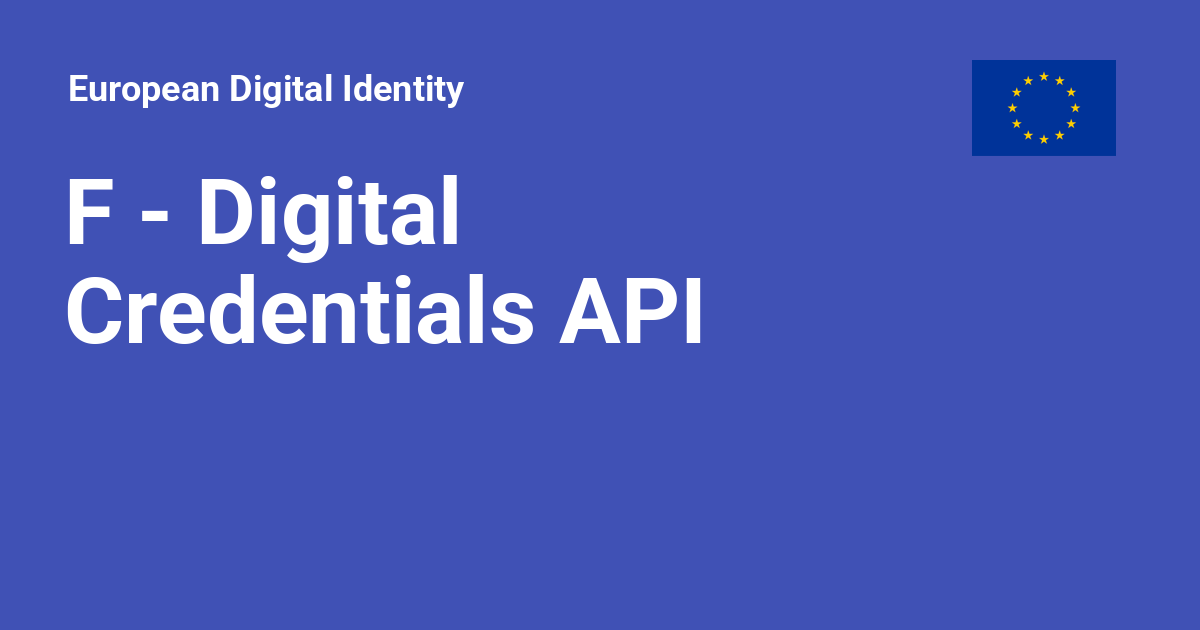
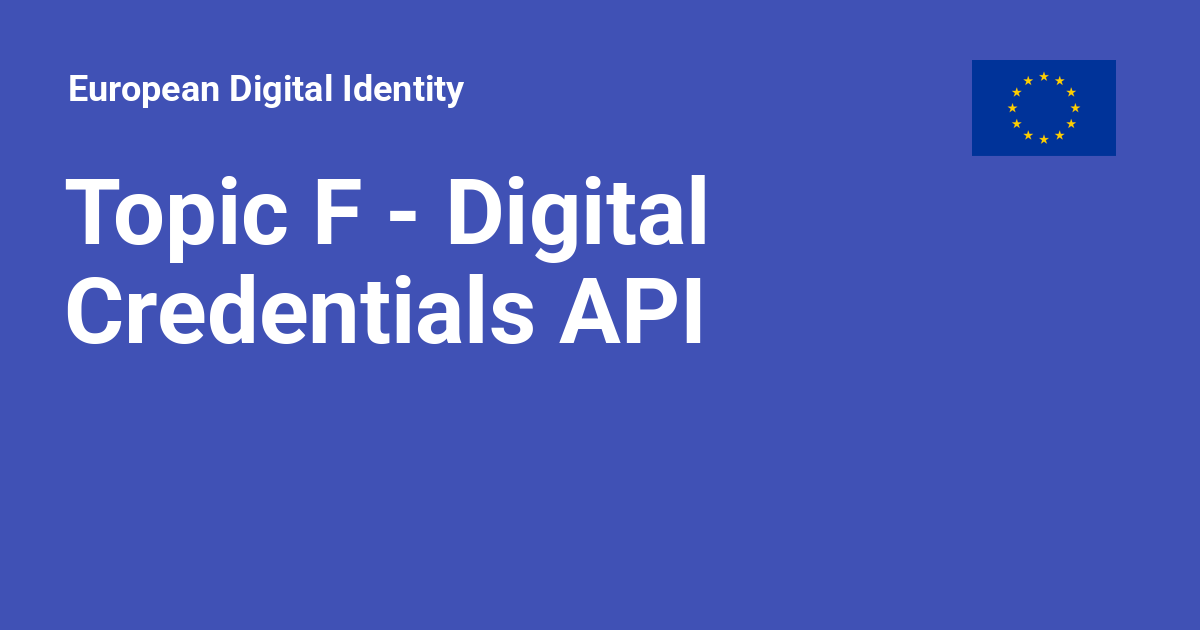
Deployed 0038ece to 2.5.0 with MkDocs 1.6.1 and mike 2.1.3

Changed region(s): [[0.0308, 0.2714, 0.5858, 0.4222]]

diff --git a/2.5.0/discussion-topics/f-digital-credential-api/index.html b/2.5.0/discussion-topics/f-digital-credential-api/index.html
@@ -18,7 +18,7 @@
     
     
       
-        <title>F - Digital Credentials API - European Digital Identity</title>
+        <title>Topic F - Digital Credentials API - European Digital Identity</title>
       
     
     
@@ -53,7 +53,7 @@
       
         <meta  property="og:type"  content="website" >
       
-        <meta  property="og:title"  content="F - Digital Credentials API - European Digital Identity" >
+        <meta  property="og:title"  content="Topic F - Digital Credentials API - European Digital Identity" >
       
         <meta  property="og:description"  content="None" >
       
@@ -69,7 +69,7 @@
       
         <meta  name="twitter:card"  content="summary_large_image" >
       
-        <meta  name="twitter:title"  content="F - Digital Credentials API - European Digital Identity" >
+        <meta  name="twitter:title"  content="Topic F - Digital Credentials API - European Digital Identity" >
       
         <meta  name="twitter:description"  content="None" >
       
@@ -96,7 +96,7 @@
     <div data-md-component="skip">
       
         
-        <a href="#f-digital-credentials-api" class="md-skip">
+        <a href="#topic-f-digital-credentials-api" class="md-skip">
           Skip to content
         </a>
       
@@ -135,7 +135,7 @@
         <div class="md-header__topic" data-md-component="header-topic">
           <span class="md-ellipsis">
             
-              F - Digital Credentials API
+              Topic F - Digital Credentials API
             
           </span>
         </div>
@@ -429,8 +429,8 @@
   
 
 
-<h1 id="f-digital-credentials-api">F - Digital Credentials API</h1>
-<p>Version 1.1, updated 20 February 2025</p>
+<h1 id="topic-f-digital-credentials-api">Topic F - Digital Credentials API</h1>
+<p>Version 1.2, updated 8 October 2025</p>
 <h2 id="1-introduction">1. Introduction</h2>
 <h3 id="11-discussion-paper-topic-description">1.1 Discussion Paper topic description</h3>
 <p>This document is the Discussion Paper for the European Digital Identity Cooperation Group regarding Topic F: Digital Credentials API (formerly known as 'the browser API').</p>
@@ -498,7 +498,7 @@ Credentials API:</p>
 </thead>
 <tbody>
 <tr>
-<td>Data theft is defined as the unauthorised extraction of data. Data theft is also associated to threats, such as data interception (unauthorised capture of data in transit) and data decryption (unauthorised decoding of encrypted data), which are likely to lead in some cases to Data disclosure (R6).</td>
+<td>Data theft is defined as the unauthorised extraction of data. Data theft is also associated with threats, such as data interception (unauthorised capture of data in transit) and data decryption (unauthorised decoding of encrypted data), which are likely to lead in some cases to Data disclosure (R6).</td>
 </tr>
 </tbody>
 </table>
@@ -692,7 +692,7 @@ One approach considered by standardization bodies involves using custom URI sche
 or "openid4vp://". In this approach, the operating system would trigger the Wallet Unit
 when the Relying Party Instance requests a connection via a custom URI. However, relying on custom
 URI schemes introduces variability in user experiences across different browsers and operating systems,
-resulting in operational inefficiencies and potential security risks.</li>
+leading to operational inefficiencies and potential security risks.</li>
 <li><strong>4. Clear Origin Verification</strong>: Protecting against relay attacks requires precise
 identification of the Relying Party Instance's origin.</li>
 <li><strong>5. Session binding</strong>: When presenting a PID or attestation to a remote Relying Party,
@@ -706,9 +706,8 @@ and security while providing a consistent and reliable user experience.</p>
 <p>Digital Credentials API is a Draft Community Group report of the
 Web Platform Incubator Community Group (WICG) that builds upon Credential
 Management Level 1 API W3C Working Draft [Cred_Man]. The goal of the Digital
-Credentials API is to enable user agents (i.e., browsers) to mediate access to,
-and presentation of, attestations. Currently, attestation issuance is not in the
-scope of this API, but future versions <a href="https://github.com/WICG/digital-credentials/issues/167">will consider it</a>. The Digital Credentials
+Credentials API is to enable user agents (i.e., browsers) to mediate issuance, access,
+and presentation of attestations. The Digital Credentials
 API can be used, for example, by a Relying Party website to request a PID or
 (Q)EAA stored in a Wallet Unit through the User's browser. The browser and the
 Wallet Unit may be in the same device (same-device flow) or in separate devices
@@ -741,7 +740,7 @@ requests</code>, where each presentation request includes an <code>exchange prot
 protocol. The Digital Credentials API specifications will include a registry of
 supported protocols.</p>
 <p>As a next step, the browser sends the request to the operating system which
-searches matching attestations in installed Wallet Units. The cross-device
+searches for matching attestations in installed Wallet Units. The cross-device
 flow can be used to search for matching attestations in Wallet Units installed
 in a different device, located in close proximity to the browser. If more than
 one matching attestation is found, the browser prompts the User to select one.
@@ -749,18 +748,28 @@ As a next step, request data is sent to the corresponding
 Wallet Unit. Then, the Wallet Unit asks user consent and generates a
 presentation based on the selected exchange protocol. The presentation is
 relayed back to the Relying Party's website.</p>
-<p>As of January 2025, Digital Credentials API support is provided only by the Chrome
-browser and the Android mobile operating system. In this experimental implementation there
-exists a method for Wallet Units to indicate to a component, which is part of
-the Wallet Solution and it is referred to as the "matcher" in the current Android-specific
-implementation, the availability of attestations and,
-optionally, attributes included in the attestation. An example <a href="https://digitalcredentials.dev/docs/wallets/android/#the-provider-api">can be found here</a>. This
-Android-specific documentation mentions that the information provided by the Wallet Unit is used
-by the Android operating system to render a selector, allowing Users to make an
-informed choice about which attestation to proceed with.</p>
-<h4 id="221-same-device-flow">2.2.1 Same-device flow</h4>
-<p>As of January 2025, the same-device flow is
-implemented using the following steps:</p>
+<p>As of October 2025, attestation presentation using the DC API is supported
+by Chrome, Safari, and Edge (with a feature flag enabled). Attestation issuance 
+is available as an experimental feature in Chrome and Edge. However, DC API 
+implementations differ across browsers. Chrome and Edge are agnostic to the 
+attestation format and presentation protocol. Safari, on the other hand, 
+<a href="https://developer.apple.com/documentation/identitydocumentservices/requesting-a-mobile-document-on-the-web">supports only</a> 
+the mdoc request profile as defined in ISO/IEC 18013-7 Annex C. </p>
+<h4 id="221-attestation-matching">2.2.1 Attestation matching</h4>
+<p>Mobile operating systems handle attestation matching
+differently. In Android, a Wallet must provide 
+a "matcher", which is Wallet-specific code executed in a sandboxed environment 
+and responsible for matching DC API requests to Wallet Instances. Android 
+provides a sample matcher that has to be configured with the attestation types 
+and attributes of all credentials in a Wallet Instance, although alternative matcher 
+implementations can be used. In iOS, Wallet Units register supported attestation 
+types with the operating system. </p>
+<p>It is highlighted that the method used by the operating system to 
+match credential requests to attestations is out of scope of the DC API 
+specification.</p>
+<h4 id="222-same-device-flow">2.2.2 Same-device flow</h4>
+<p>The same-device flow can be implemented using the following steps (the example 
+screenshots shown are based on the Chrome browser):</p>
 <ul>
 <li>The User visits the website of the Relying Party and indicates that they want to present some attributes from installed Wallet Units.</li>
 <li>The browser asks permission from the User to allow Digital Credentials API invocation from this particular website.
@@ -773,28 +782,45 @@ implemented using the following steps:</p>
 <li>The Wallet Unit processes the request according to the relevant specification (e.g., OpenID4VP) and returns the requested
 attributes through the browser, provided that the Wallet Unit contains the attributes, all required verifications pass and the User consents.</li>
 </ul>
-<h4 id="222-cross-device-flow">2.2.2 Cross-device flow</h4>
-<p>The cross-device flow is implemented using the following steps:</p>
+<h4 id="223-cross-device-flow">2.2.3 Cross-device flow</h4>
+<p>The cross-device flow can be implemented using the following steps (the example 
+screenshots shown are based on the Chrome browser):</p>
 <ul>
 <li>The User visits the website of the Relying Party and indicates that they want to present some attributes from installed Wallet Units.</li>
 <li>The browser asks permission from the User to allow Digital Credentials API invocation from this particular website.
 <img alt="Website authorisation in cross device flow" src="../img/cross-auth.png" /></li>
 <li>The Relying Party  indicates to the browser which attributes they want to request by
 creating a <code>presentation request</code>.</li>
-<li>The browser uses CTAP 2.2 hybrid flow (section 11.5 of [Ctap]) to establish a tunnel between the
-browser and the device where the Wallet Unit is installed (this is the same flow used by WebAuthn/passkeys).
-From a high level this is implemented as follows: (i) The browser presents a QR code which
-includes information about the tunnel endpoint and keys that can be used for establishing
-a secure session, (ii) the user scans the QR code using the device camera, (iii) the device
-where the Wallet Unit is installed emits a BLE advertisement which is received by the
-browser. The advertisement includes in an encrypted form information required for
-establishing the secure tunnel. This advertisement is used as a proximity check,
-(iv) The tunnel is established.</li>
+<li>Using a cross-device protocol (see section 2.3) the presentation request is
+transferred from the browser to the User device</li>
+<li>The device operating system presents to the User a selector that includes a 
+list of potentially suitable attestations.</li>
+</ul>
+<h3 id="23-cross-device-protocols">2.3 Cross-device protocols</h3>
+<p>The protocol used for communication between a browser and a (remote) User device 
+is out of scope of the DC API specification. Current implementations rely on 
+the CTAP 2.2 hybrid flow, as described in section 11.5 of [Ctap]. This flow 
+establishes a secure "tunnel" between the browser and the User device, which is 
+then used to exchange the credential request and the corresponding response. 
+In more detail:</p>
+<ul>
+<li>The browser displays a QR code containing information about the tunnel 
+endpoint and cryptographic keys used to establish a secure session. Suitable 
+tunnel endpoints are currently defined in [Ctap]. As of October 2025, two 
+endpoints are defined: <code>cable.ua5v.com</code>, operated by Google, and 
+<code>cable.auth.com</code>, operated by Apple.</li>
+<li>The User scans the QR code using the device’s camera.</li>
+<li>The device emits a BLE advertisement, which is received by the browser. 
+This advertisement includes encrypted data required to establish the tunnel and 
+also serves as a proximity check.</li>
+<li>A secure tunnel is established.</li>
 </ul>
 <p><img alt="QR Code display" src="../img/cross-qr.png" /></p>
 <ul>
-<li>The presentation request is transferred through the tunnel to the device operating system.</li>
-<li>The device operating system presents to the User a selector that includes a list of potentially suitable attestations.</li>
+<li>The presentation request is transmitted through the tunnel to the device’s 
+operating system.</li>
+<li>The device operating system displays a selector to the user with a list 
+of potentially suitable attestations.</li>
 </ul>
 <p><img alt="Attestation selection" src="../img/cross-select.png" /></p>
 <h2 id="3-expectations-from-the-digital-credentials-api">3. Expectations from the Digital Credentials API</h2>
@@ -874,7 +900,7 @@ removing protocols to the registry should follow established criteria and proces
 and involve multiple stakeholders. Adding or removing protocols to the registry
 should follow established criteria and processes, and involve multiple stakeholders.
 The criteria and processes should be transparent, objective and non-discriminatory;
-in other words well-governed.</p>
+in other words, well-governed.</p>
 </li>
 <li>
 <p><strong>Cross-platform compatibility and interoperability</strong>. The Digital Credentials
@@ -893,19 +919,9 @@ those required by the EU.</p>
 <p>The use of the Digital Credentials API should not compromise User privacy. In more detail:</p>
 <ol>
 <li>
-<p><strong>Privacy preserving searching</strong>: Wallet Units may have to "indicate" to the Digital Credentials
-API framework the availability of attestations, to facilitate their discovery and use.
-However, this process should be designed and implemented in a way that it does not introduce
-privacy threats, such as exposing attribute values to any other party, including the OS/browser
-vendor, other applications on the same device, other users of the same device, or Relying Parties.
-Similarly, the OS should have access only to the bare minimum information required to
-implement the search functionality and must ensure that no third party can access this information.</p>
-</li>
-<li>
 <p><strong>Privacy preserving attestation relay</strong>:  The use of a browser as an intermediary in the attestation
 issuance and presentation process should not create privacy risks, such as those arising from malicious add-ons
-or unauthorised tracking mechanisms. Browsers should maintain strict privacy controls to ensure
-that attestation-related data is neither exposed nor accessible to unauthorised third parties.
+or unauthorised tracking mechanisms. Browsers should maintain strict privacy controls to ensure attestation-related data is neither exposed nor accessible to unauthorised third parties.
 This principle also extends to any tunneling services used to facilitate cross-device flow.</p>
 </li>
 <li>
@@ -924,52 +940,40 @@ Parties to perform Denial of Service attacks against Wallet Units, e.g., by enab
 to send multiple invalid requests. Similarly, the use of the Digital Credentials API should not enable
 attackers to block transactions by Relying Parties and Wallet Units.</li>
 </ol>
+<h3 id="36-implementation-requirements">3.6 Implementation requirements</h3>
+<p>DC API deployments rely on two external components: an attestation matching 
+mechanism (see Section 2.2.1) and a cross-device communication protocol (see 
+Section 2.3). Both components are out of scope of the DC API specification, 
+but they introduce privacy and availability concerns.</p>
+<ol>
+<li>
+<p><strong>Privacy-preserving matching</strong>: Wallet Units may need to indicate the 
+availability of attestations to the Digital Credentials API framework to 
+support their discovery and use. This process must be designed in a way that 
+does not compromise user privacy. The operating system should have access only 
+to the minimum information necessary to perform the matching functionality and 
+must ensure that no third party can access this data. The overall matching 
+mechanism SHALL be aligned in accordance with the applicable EU data 
+protection regulations.</p>
+</li>
+<li>
+<p><strong>Support for alternative tunnel endpoints</strong>: The CTAP Hybrid flow 
+specification SHOULD be extended to support tunnel endpoints that are 
+regulated under EU legislation and supervised by EU authorities. Such 
+endpoints SHALL be supported by corresponding browsers and operating systems.</p>
+</li>
+</ol>
 <h2 id="4-additions-and-changes-to-the-arf">4 Additions and changes to the ARF</h2>
 <h3 id="41-high-level-requirements-to-be-added-to-annex-2">4.1 High-Level Requirements to be added to Annex 2</h3>
 <p>The following High-Level Requirements will be added to Annex 2 of the ARF:</p>
-<h4 id="411-requirements-to-be-added-likely-to-topic-1">4.1.1 Requirements to be added (likely) to Topic 1</h4>
-<h5 id="requirement-1">REQUIREMENT 1</h5>
-<p>A Wallet Unit and a Relying Party Instance receiving an attestation from the Wallet
-Unit SHALL ensure that the attributes included in the presented attestation are
-accessible only to the Relying Party, by encrypting the presentation response.
-This SHALL include preventing decryption of the presentation response or Man-in-the-Middle
-attacks by the browser, the operating system, or other components between the Wallet
-Unit and the Relying Party.</p>
-<h5 id="conditional-requirements">Conditional Requirements</h5>
-<p>Providing that the expectations set in chapter 3 are met, the following two
-High-Level Requirements will be added (likely) to Topic 1:</p>
-<h6 id="requirement-2-conditional">REQUIREMENT 2 (conditional)</h6>
-<p>Wallet Units and Relying Party Instances SHALL support the Digital Credentials API for remote
-presentation flows.</p>
-<h6 id="requirement-3-conditional">REQUIREMENT 3 (conditional)</h6>
-<p>A Wallet Unit SHALL disclose the presence of all stored attestations and attributes to the Digital
-Credentials API framework, but SHALL NOT disclose the value of the attributes in
-these attestations.</p>
-<p>Note: This restriction applies even if such disclosure would enhance the services
-provided by the operating system to the Wallet Unit, for example, attestation selection
-in the context of the Digital Credentials API.</p>
-<h6 id="requirement-4-conditional">REQUIREMENT 4 (conditional)</h6>
-<p>A Relying Party's request MAY be processed by the browser for searching available
-attestations, for preventing fraud targeting the user, or for troubleshooting purposes.
-It SHOULD be processed by the browser for user security purposes. It SHALL NOT be
-processed by the browser for market analysis purposes (including as a secondary
-purpose) or the browser’s own purposes.</p>
-<h4 id="412-requirements-to-be-added-likely-to-topic-1023">4.1.2 Requirements to be added (likely) to Topic 10/23</h4>
-<h5 id="conditional-requirements_1">Conditional Requirements</h5>
-<p>Providing that the expectations set in chapter 3 are met, the following
-High-Level Requirement will be added (likely) to Topic 10/23:</p>
-<h6 id="requirement-5-conditional">REQUIREMENT 5  (conditional)</h6>
-<p>Wallet Units and Attestation Providers SHALL support the Digital Credentials API
-for attestation issuance.</p>
 <h3 id="42-high-level-requirements-to-be-changed">4.2 High-Level Requirements to be changed</h3>
-<h4 id="rpa_01">RPA_01</h4>
-<p>The following text will be appended to RPA_01 "The Wallet Unit SHALL retain full authority over
-this process, for example, this process SHALL NOT be handled by a third party, including the
-browser and the operating system."</p>
-<h4 id="rpa_07">RPA_07</h4>
-<p>The following text will be appended to RPA_07 "The Wallet Unit SHALL retain full authority over
-this process, for example, this process SHALL NOT be handled by a third party, including the
-browser and the operating system."</p>
+<h4 id="oia_08">OIA_08</h4>
+<p>Wallet Units and Relying Party Instances ~~SHOULD~~ SHALL support the 
+[W3C Digital Credentials API]](https://wicg.github.io/digital-credentials/) for 
+remote presentation flows, provided that: a) this API is fully standardised, 
+b) this API complies with the expectations outlined in Chapter 3 of the Topic 
+F discussion paper, and c) this API is broadly supported by relevant 
+browsers and operating systems.</p>
 <h2 id="6-references">6 References</h2>
 <table>
 <thead>
